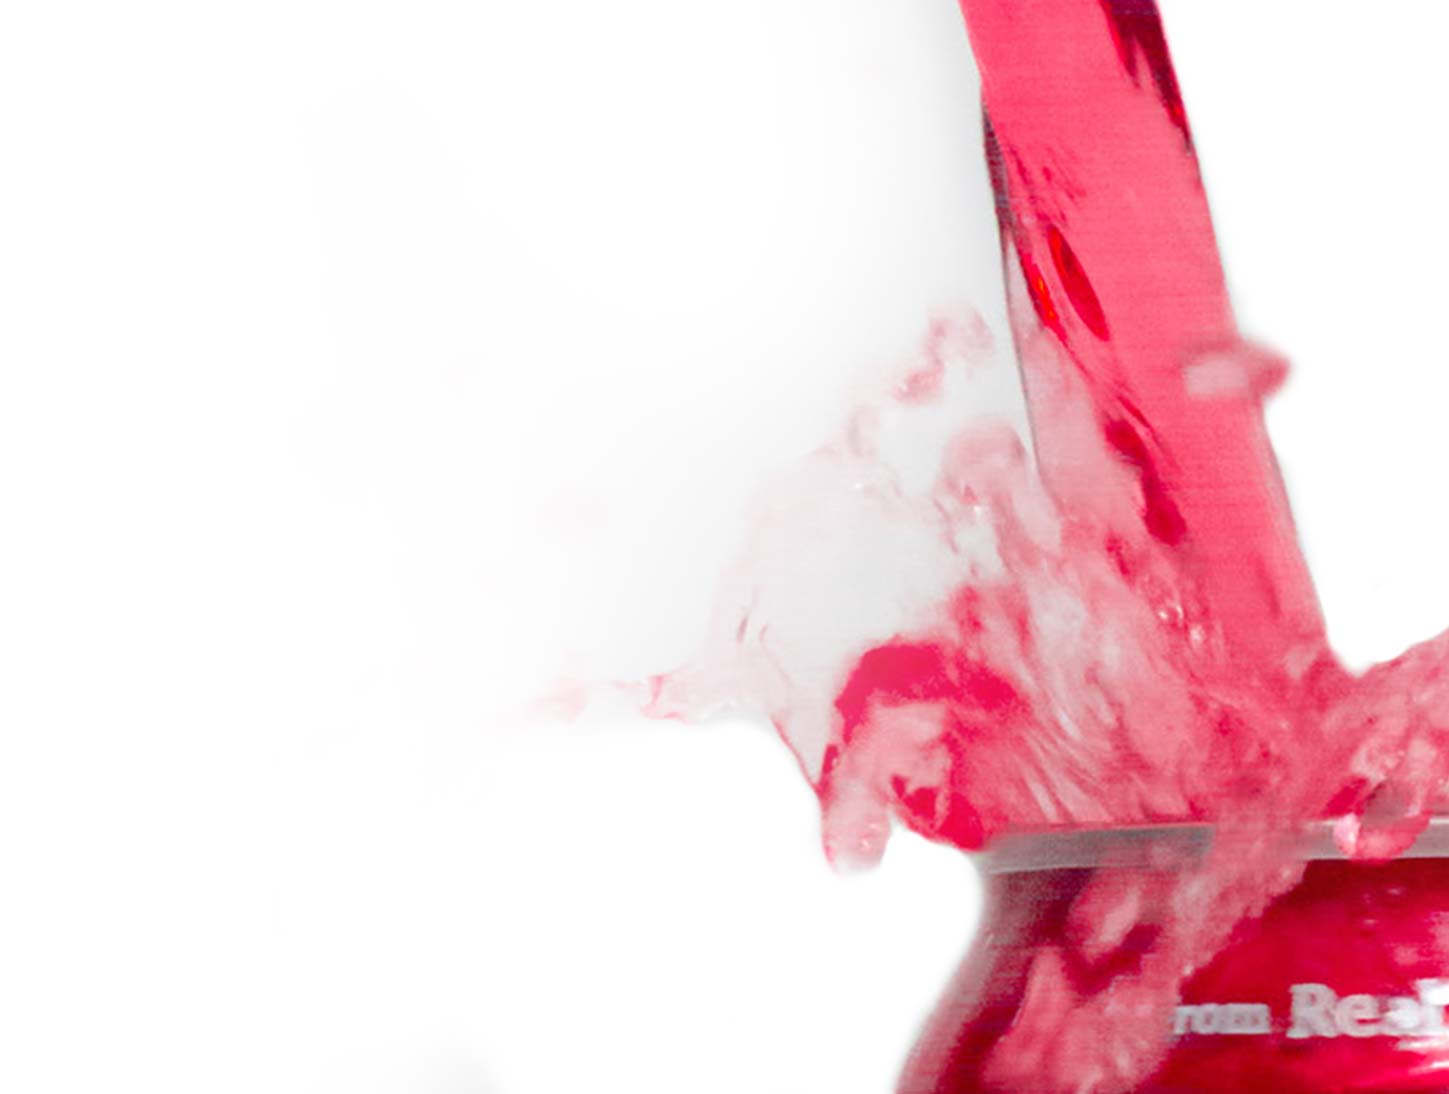
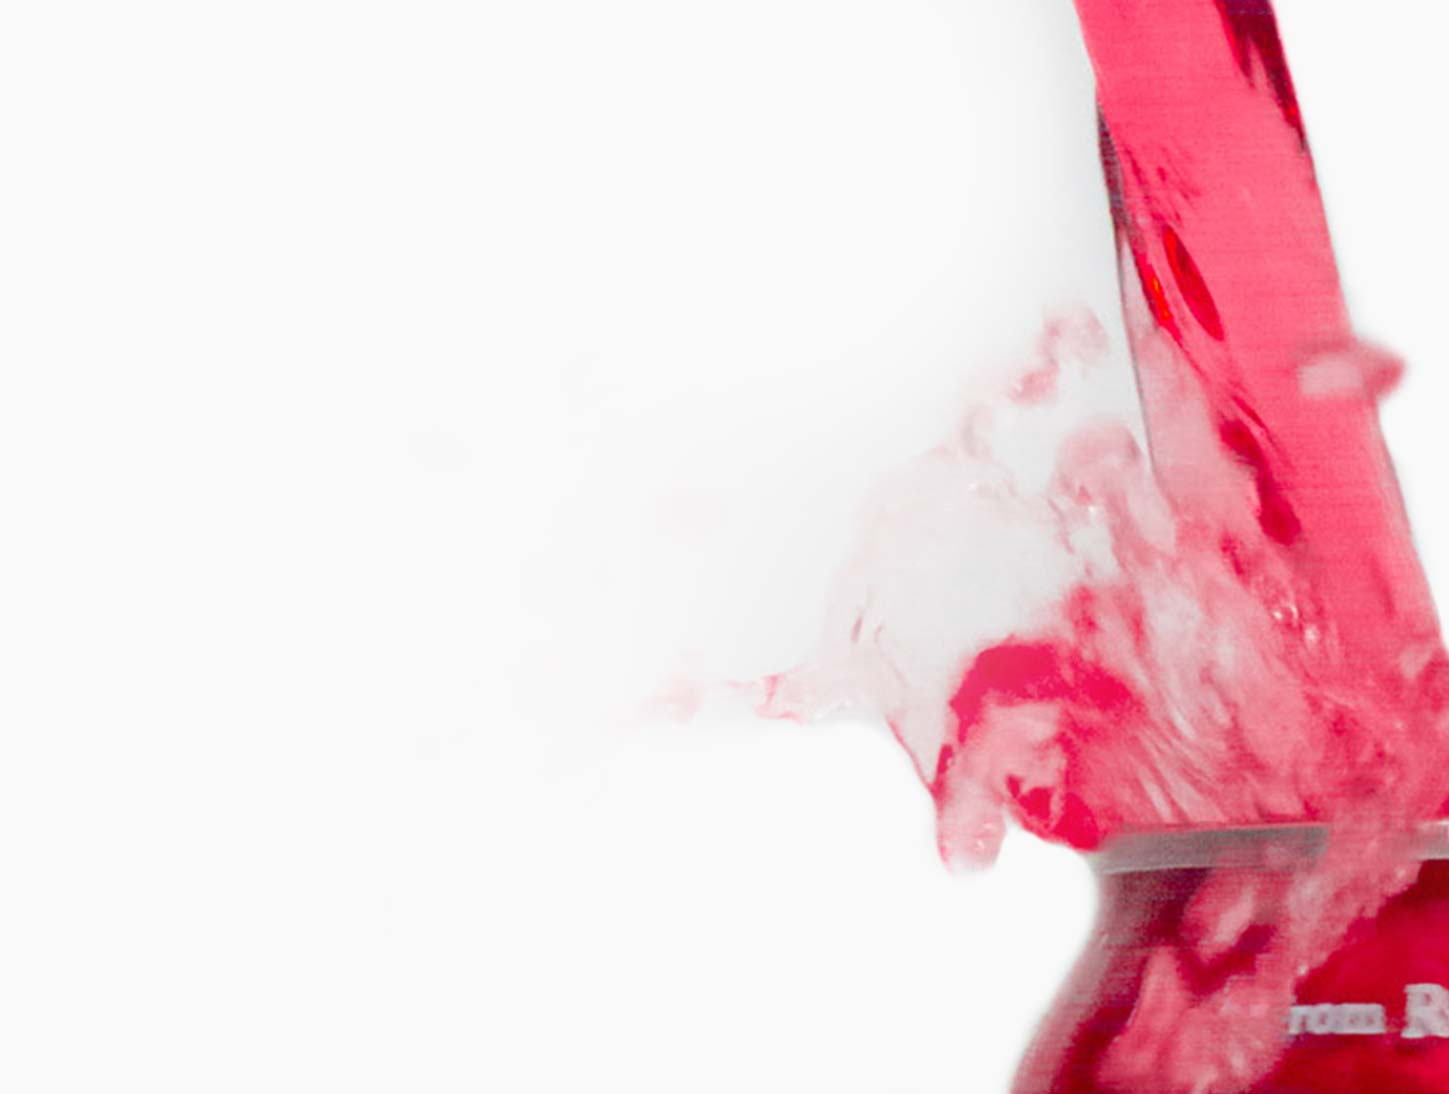
added liquid photography photos

diff --git a/liquid.html b/liquid.html
@@ -23,10 +23,13 @@ layout: default
         <svg class="project-logo"><use xlink:href="{{site.baseurl}}/images/project-logos.svg#liquid" /></svg>
         <img class="iso2" src="{{site.baseurl}}/images/liquid/liquid2.jpg" alt="">
       </div>
-      <description class="bio2">I always aim to go over the top and do something no one else would think of when I come up with ideas and that’s exactly what I did with my liquid photography.<br><br>I wanted my images to have movement involving the liquid and I came up with the idea where a wave coming out of the cup that isn’t moving. Knowing exactly how to photoshop it, I knew I could accomplish it. I got my friend Imran to flick the cup over 20 times while I was taking pictures with a fast shutter speed to capture the movement in focus. We made a mess in the classroom but it was well worth it.</description>
+      <description class="bio2">I always aim to go over the top and do something no one else would think of when I come up with ideas and that’s exactly what I did with my liquid photography.<br><br>I wanted my images to have movement involving the liquid and I came up with the idea where a wave coming out of the cup that isn’t moving. Knowing exactly how to photoshop it, I knew I could accomplish it. I got my friend to flick the cup over 20 times while I was taking pictures with a fast shutter speed to capture the wave in focus. After that, I just merged both images together to showcase the wave in a still cup. We made a mess in the classroom but it was well worth it.</description>
 
       <div>
-        <img class="mockup" src="{{site.baseurl}}/images/222/jeremy222.jpg" alt="">
-        <img class="mockup" src="{{site.baseurl}}/images/222/222-final.jpg" alt="Photoshop documents of different Body Butter images I used for the beginning part of the video.">
+        <img class="mockup" src="{{site.baseurl}}/images/liquid/cup.jpg" alt="">
+        <img class="mockup" src="{{site.baseurl}}/images/liquid/throw.jpg" alt="">
+        <img class="mockup" src="{{site.baseurl}}/images/liquid/starbucks-final.jpg" alt="">
+        <img class="mockup" src="{{site.baseurl}}/images/liquid/starbucks-text.jpg" alt="">
+        <img class="mockup" src="{{site.baseurl}}/images/liquid/canada-dry-final.jpg" alt="">
       </div>
     </div>

diff --git a/common/casestudy.css b/common/casestudy.css
@@ -58,6 +58,10 @@ html {
   max-height: 530px;
 }
 
+.liquid .header {
+  max-height: 530px;
+}
+
 .projects {
   display: none;
 }
@@ -420,6 +424,10 @@ html {
   }
 
   .perspective .header {
+    max-height: 700px;
+  }
+
+  .liquid .header {
     max-height: 700px;
   }
 
